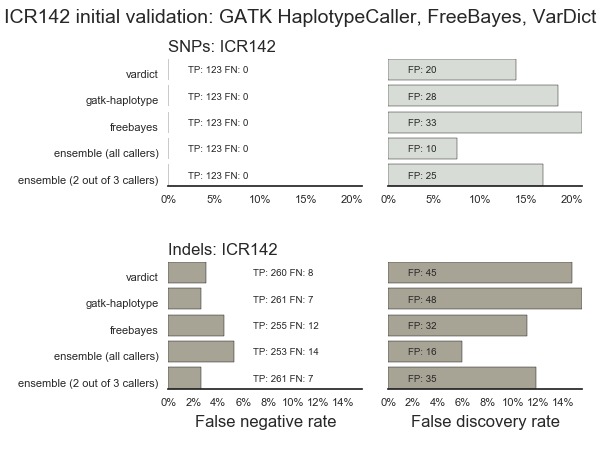
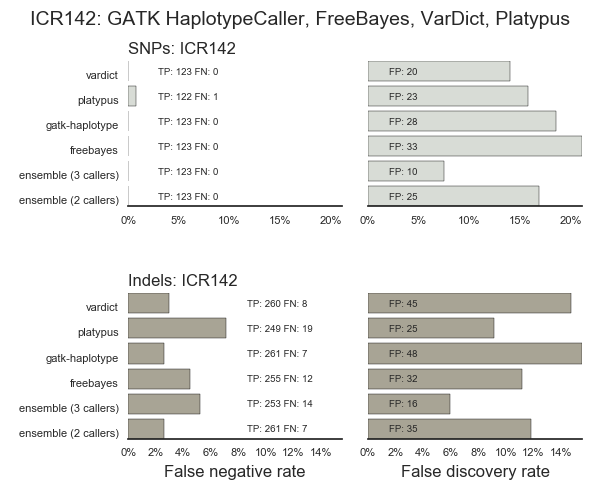
Add Platypus to ICR validation results

diff --git a/scripts/bcbio_validation_plot.py b/scripts/bcbio_validation_plot.py
@@ -1,5 +1,5 @@
 import sys
 from bcbio.variation import validateplot
 
-title="ICR142 initial validation: GATK HaplotypeCaller, FreeBayes, VarDict"
+title="ICR142: GATK HaplotypeCaller, FreeBayes, VarDict, Platypus"
 validateplot.classifyplot_from_valfile(sys.argv[1], outtype="png", title=title)
